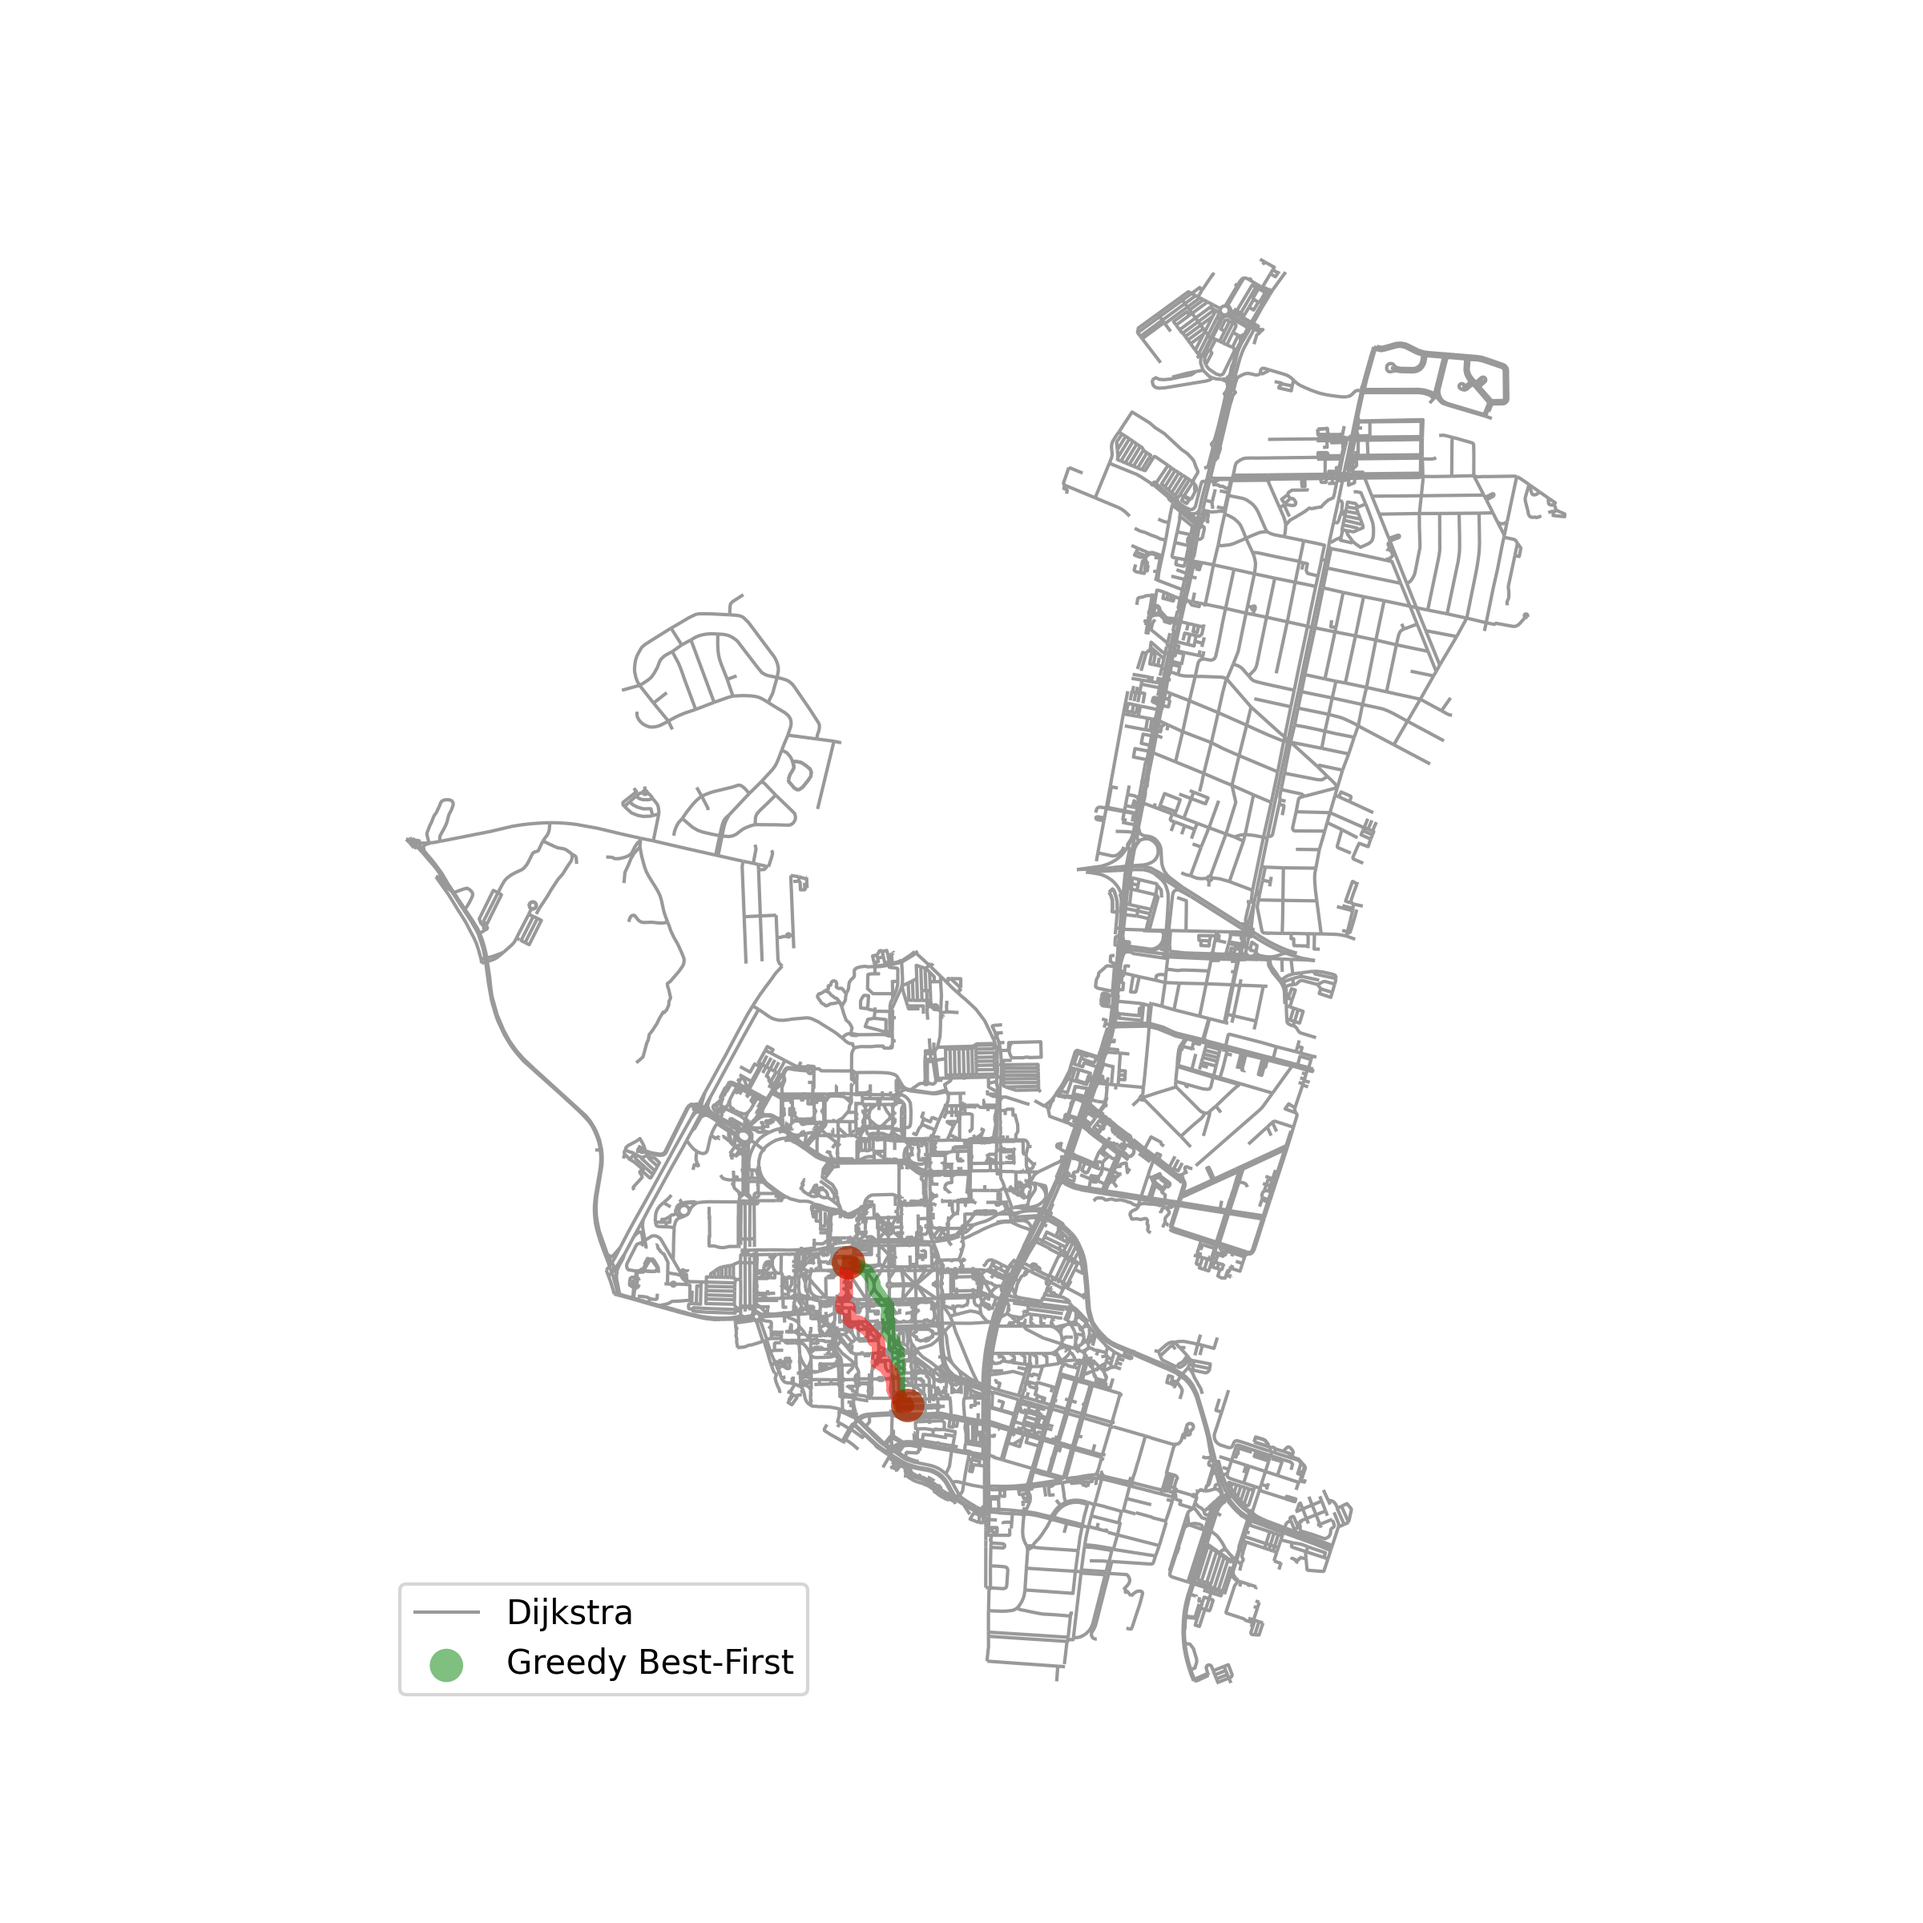
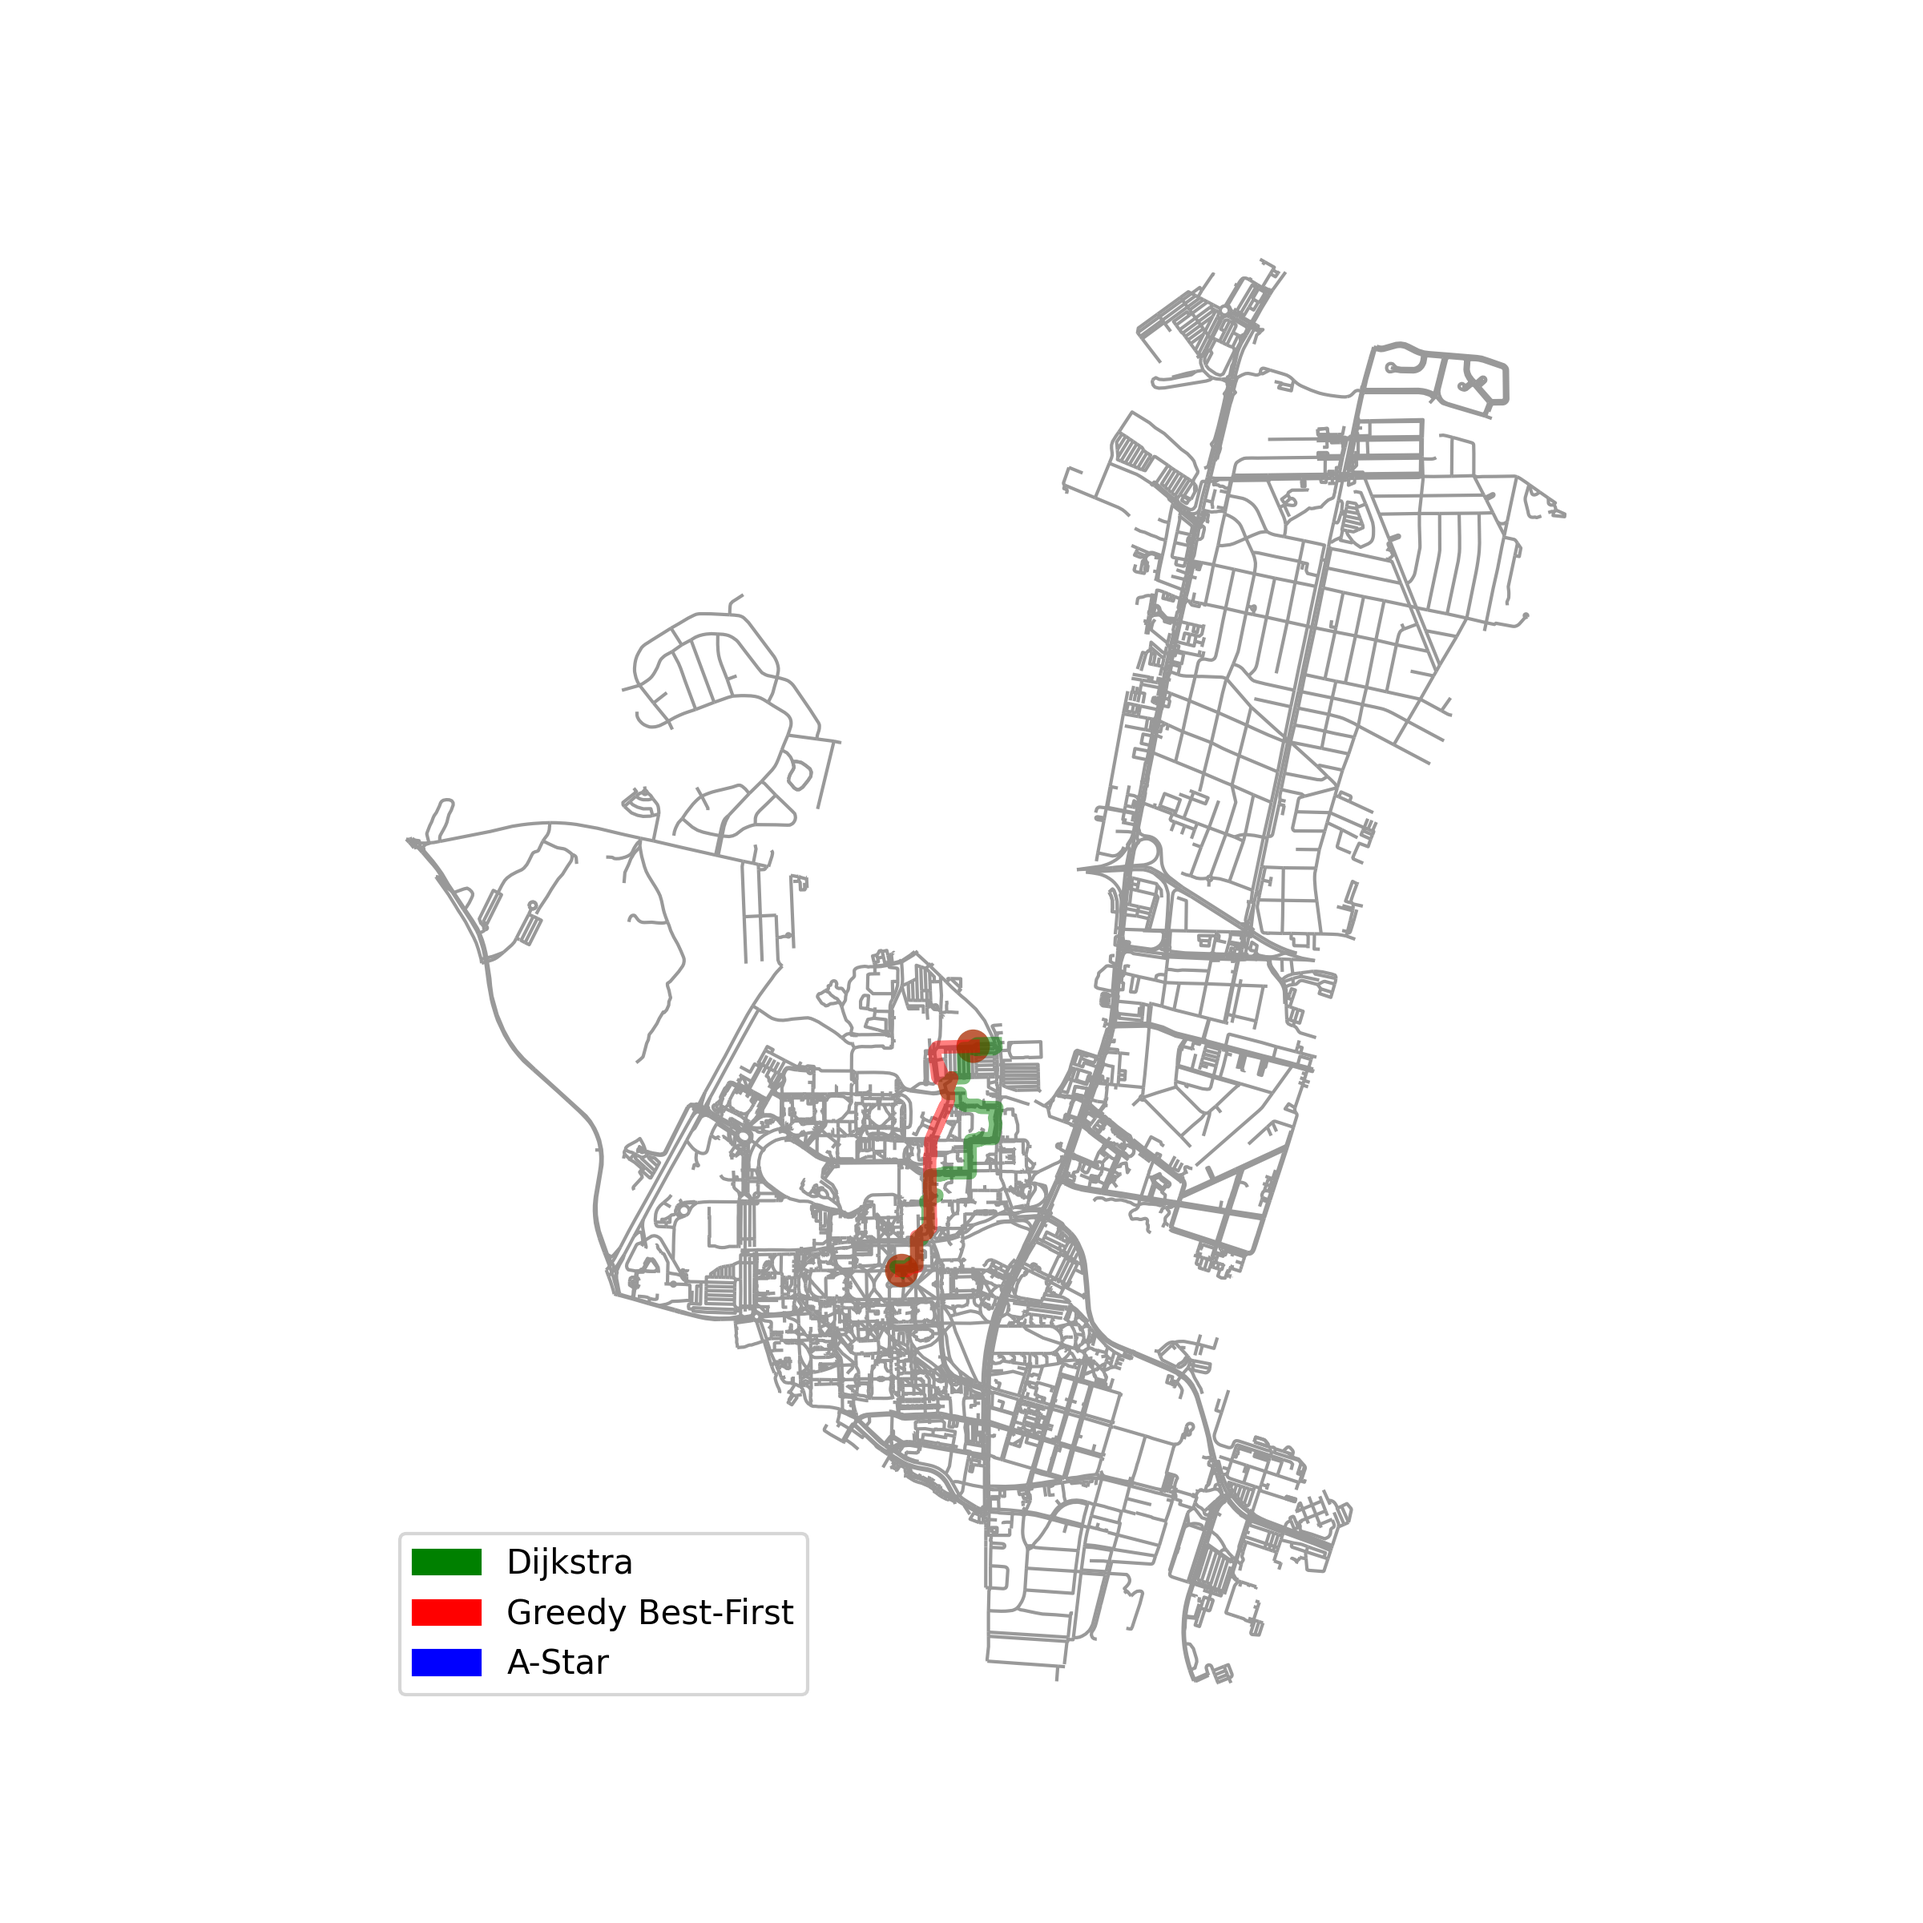
adding A-start

Changed region(s): [[0.1875, 0.7812, 0.4062, 0.875], [0.4375, 0.5312, 0.5312, 0.75]]

diff --git a/shortest_path.py b/shortest_path.py
@@ -1,8 +1,9 @@
 import matplotlib.pyplot as plt
+import matplotlib.patches as mpatches
 import random
 import osmnx as ox
 import networkx as nx
-from algorithms import greedy, dijkstra
+from algorithms import greedy, dijkstra, astar
 
 if __name__ == "__main__":
     # college park map
@@ -18,11 +19,18 @@ if __name__ == "__main__":
 
     path_dijkstra = dijkstra(G, source, target)
     path_greedy = greedy(G, source, target)
+    path_astar = astar(G, source, target)
 
-    fig, ax = ox.plot_graph_routes(G, [path_dijkstra, path_greedy],
-                                route_colors=["green", "red"],
+    fig, ax = ox.plot_graph_routes(G, [path_dijkstra, path_greedy, path_astar],
+                                route_colors=["green", "red", "blue"],
                                 route_linewidth=3, node_size=0,
                                 bgcolor="white", show=False)
 
-    ax.legend(["Dijkstra", "Greedy Best-First"], loc="lower left")
+    legend_handles = [
+        mpatches.Patch(color="green", label="Dijkstra"),
+        mpatches.Patch(color="red", label="Greedy Best-First"),
+        mpatches.Patch(color="blue", label="A-Star")
+    ]
+
+    ax.legend(handles=legend_handles, loc="lower left")
     fig.savefig("paths_plot.png", dpi=300)

diff --git a/algorithms.py b/algorithms.py
@@ -52,3 +52,30 @@ def dijkstra(G: nx.MultiGraph, source: int, target: int):
                 heapq.heappush(heap, (new_dist, neighbor, path + [neighbor]))
     
     return None
+
+# astar
+def astar(G: nx.MultiGraph, source: int, target: int):
+    # (f_score, g_score, current_node, path)
+    heap = [(haversine_distance(G, source, target), 0, source, [source])]
+    visited = set()
+    g_scores = {source: 0}
+
+    while heap:
+        f, g, current, path = heapq.heappop(heap)
+
+        if current in visited:
+            continue
+        visited.add(current)
+
+        if current == target:
+            return path
+
+        for neighbor in G.neighbors(current):
+            edge_weight = G.edges[current, neighbor, 0].get('length', 1)
+            tentative_g = g + edge_weight
+            if tentative_g < g_scores.get(neighbor, float("inf")):
+                g_scores[neighbor] = tentative_g
+                f_score = tentative_g + haversine_distance(G, neighbor, target)
+                heapq.heappush(heap, (f_score, tentative_g, neighbor, path + [neighbor]))
+
+    return None
